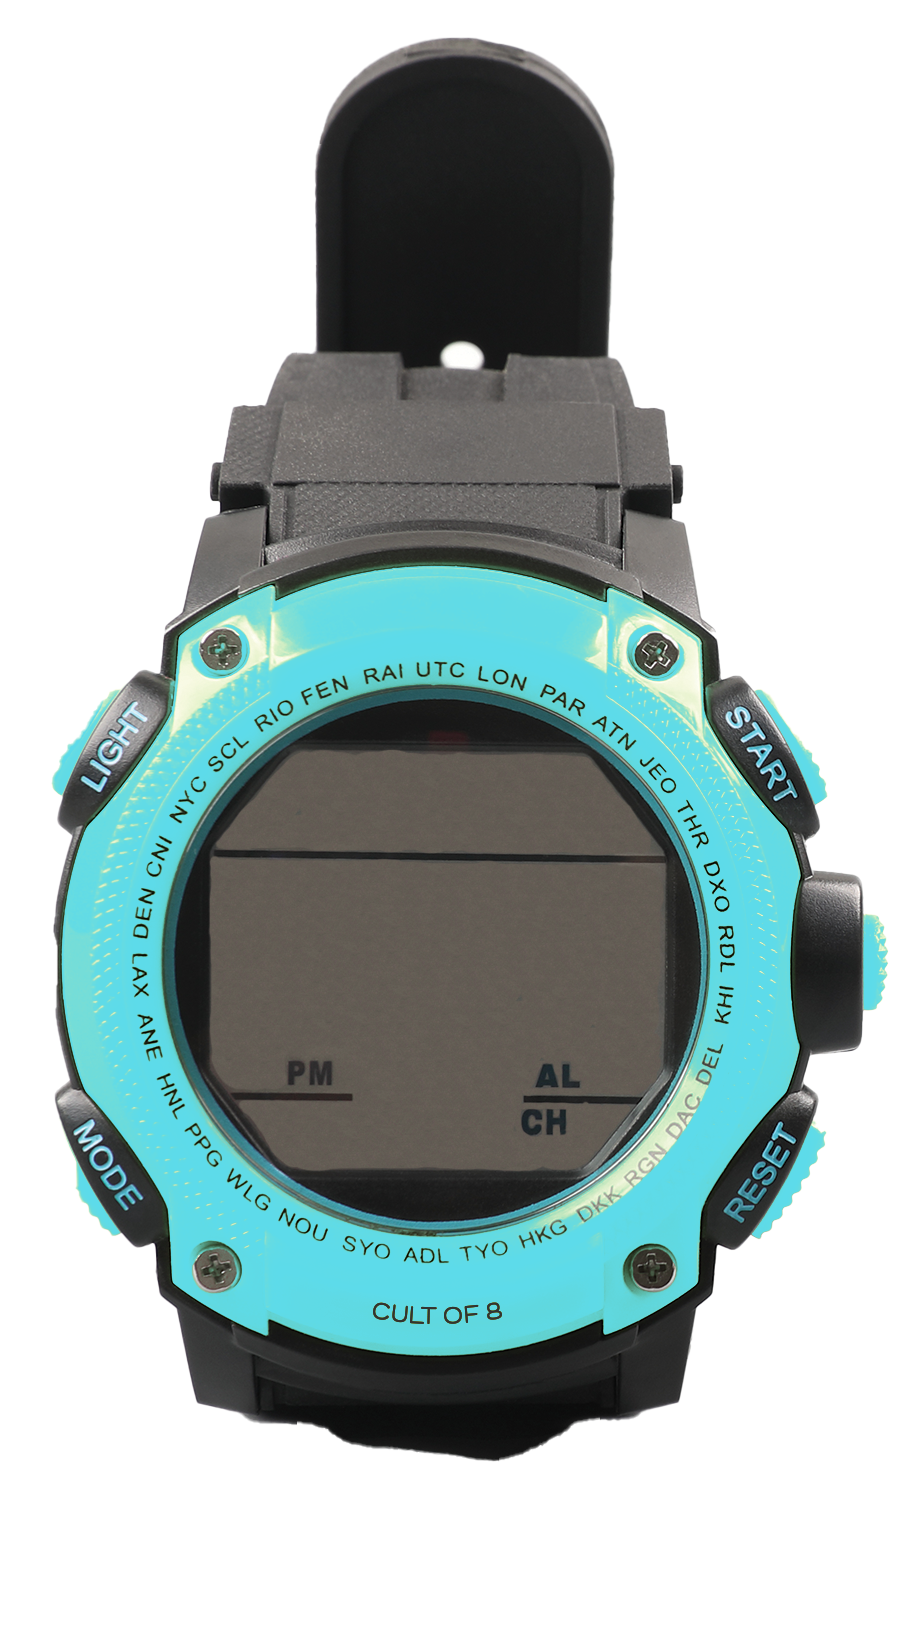
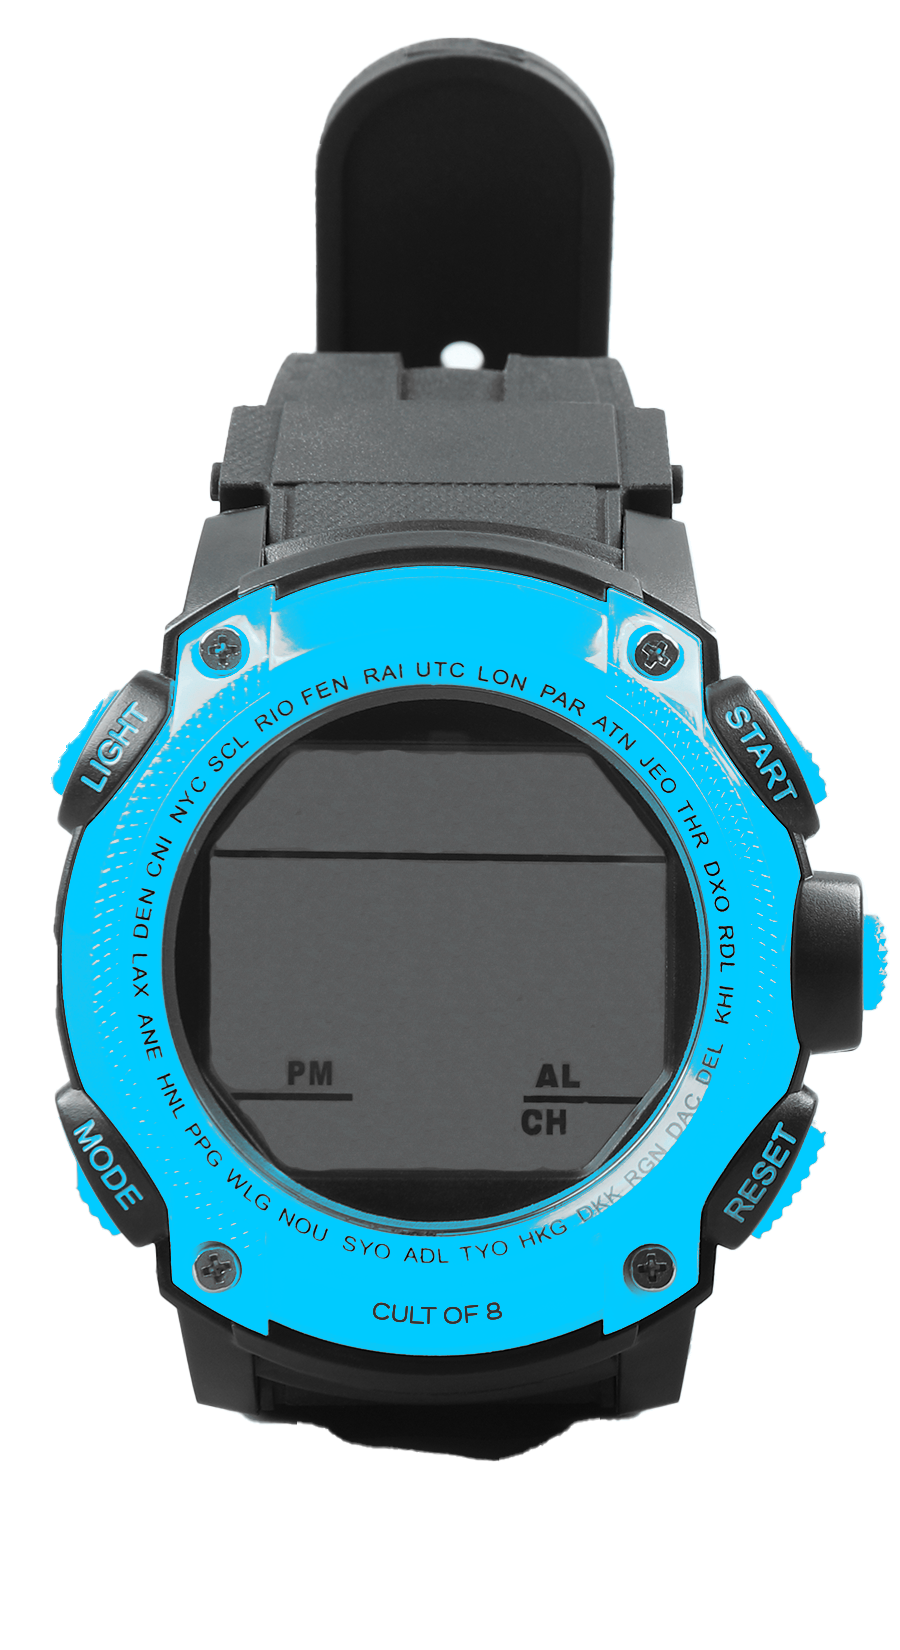
Watch image update and changes references in js

Changed region(s): [[0.0622, 0.34, 0.9333, 0.8345], [0.9333, 0.5564, 0.9956, 0.6182]]

diff --git a/js/timer.js b/js/timer.js
@@ -2,8 +2,7 @@
 const watchImages = [
     '/img/YellowWatch.png',
     '/img/BlueWatch.png',
-    '/img/LightPinkWatch.png',
-    '/img/BrightPinkWatch.png'
+    '/img/PinkWatch.png'
     // Add more image paths as needed
 ];
 
